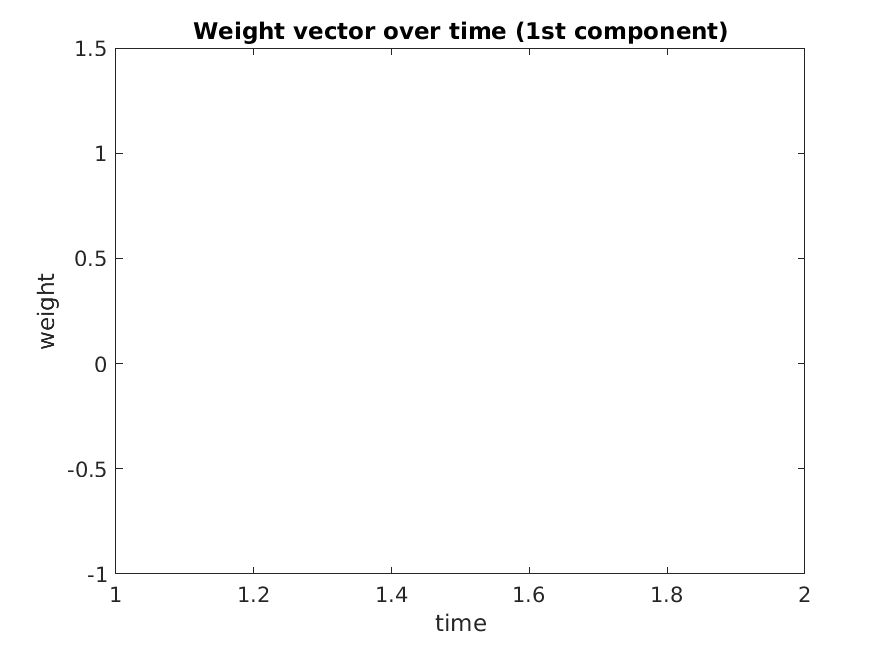
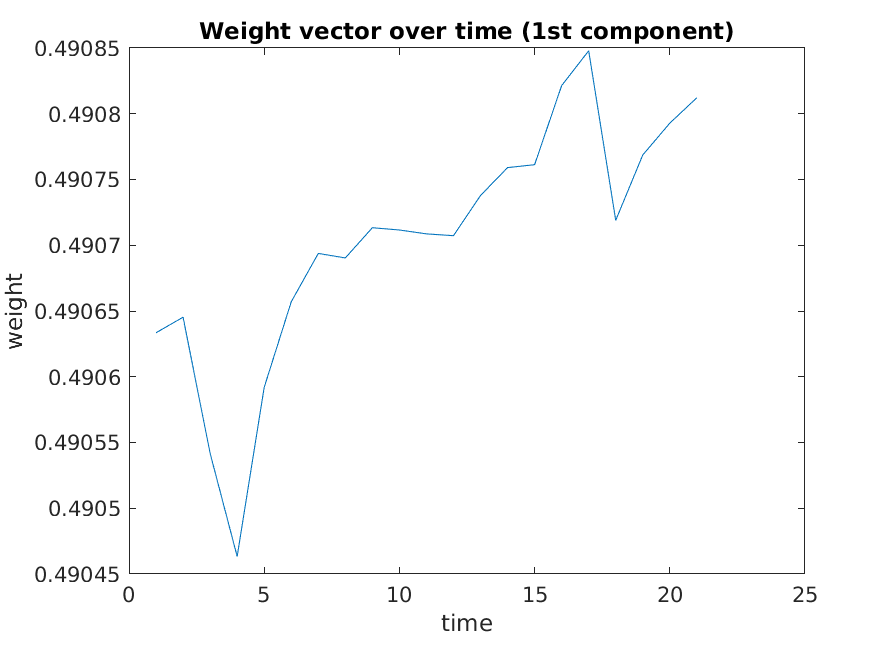
Fixed BCM rule

diff --git a/LAB2_1/BonusTrack1 (to-do)/bcm_rule.m b/LAB2_1/BonusTrack1 (to-do)/bcm_rule.m
@@ -4,10 +4,9 @@ clear variables;
 data = readtable('../lab2_1_data.csv');  % importing data as table
 U = table2array(data);  % converting table into input array
 U_size = size(U,2);  % training set dimension
-eta = 1*10e-2;  % learning rate
+eta = 1*10e-6;  % learning rate
 epochs=1000;  % iterations
-%theta = 2*10e-5;  % threshold for early stopping
-%theta = NaN;
+theta = -1;
 Q = U*U';  % input correlation matrix
 weights = [];
 
@@ -23,15 +22,12 @@ for i = 1:epochs
         % linear firing model
         u = U(:,n);
         v = w' * u;  % compute output
-        vs = [vs; v];  % save all v to compute theta
-        theta = mean(vs);
         delta_w = v  * u * (v - theta);
         w = w + eta * delta_w;  % update weights
+        theta = v^2 - theta;  % update theta
     end
     
-    theta = v^2 - theta;  % update theta
     weights(:,i) = w/norm(w);
-    
     w_norm_new = norm(w);
     W_norm = [W_norm; w_norm_new];
     diff = w_norm_new - w_norm;
